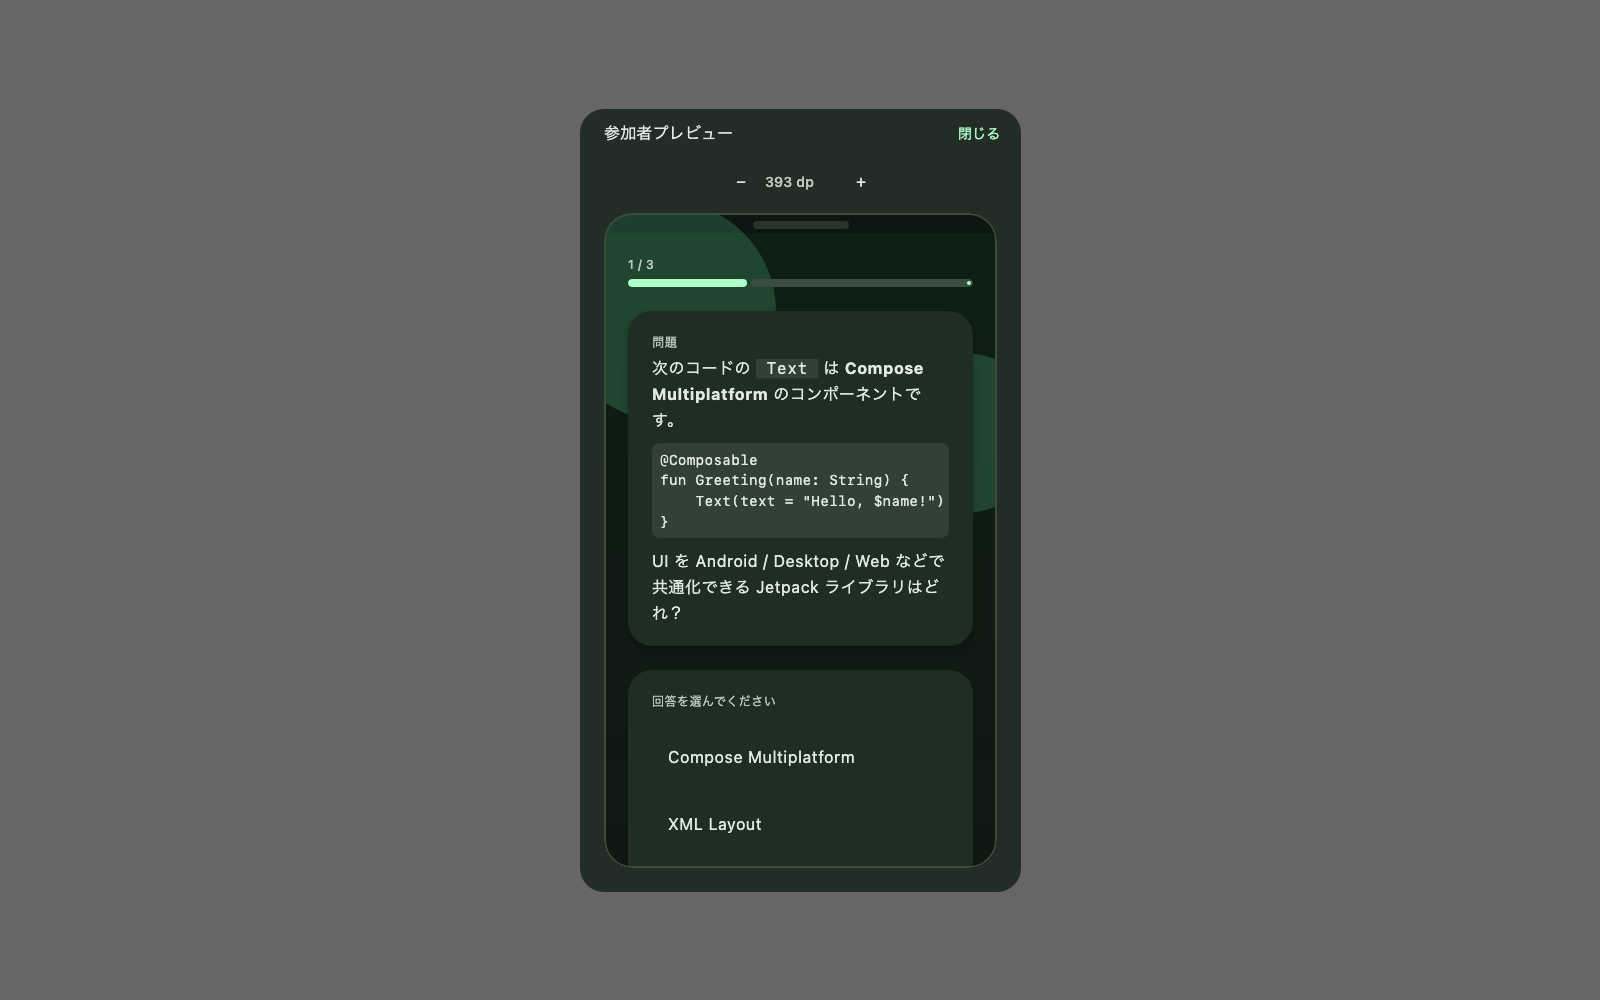
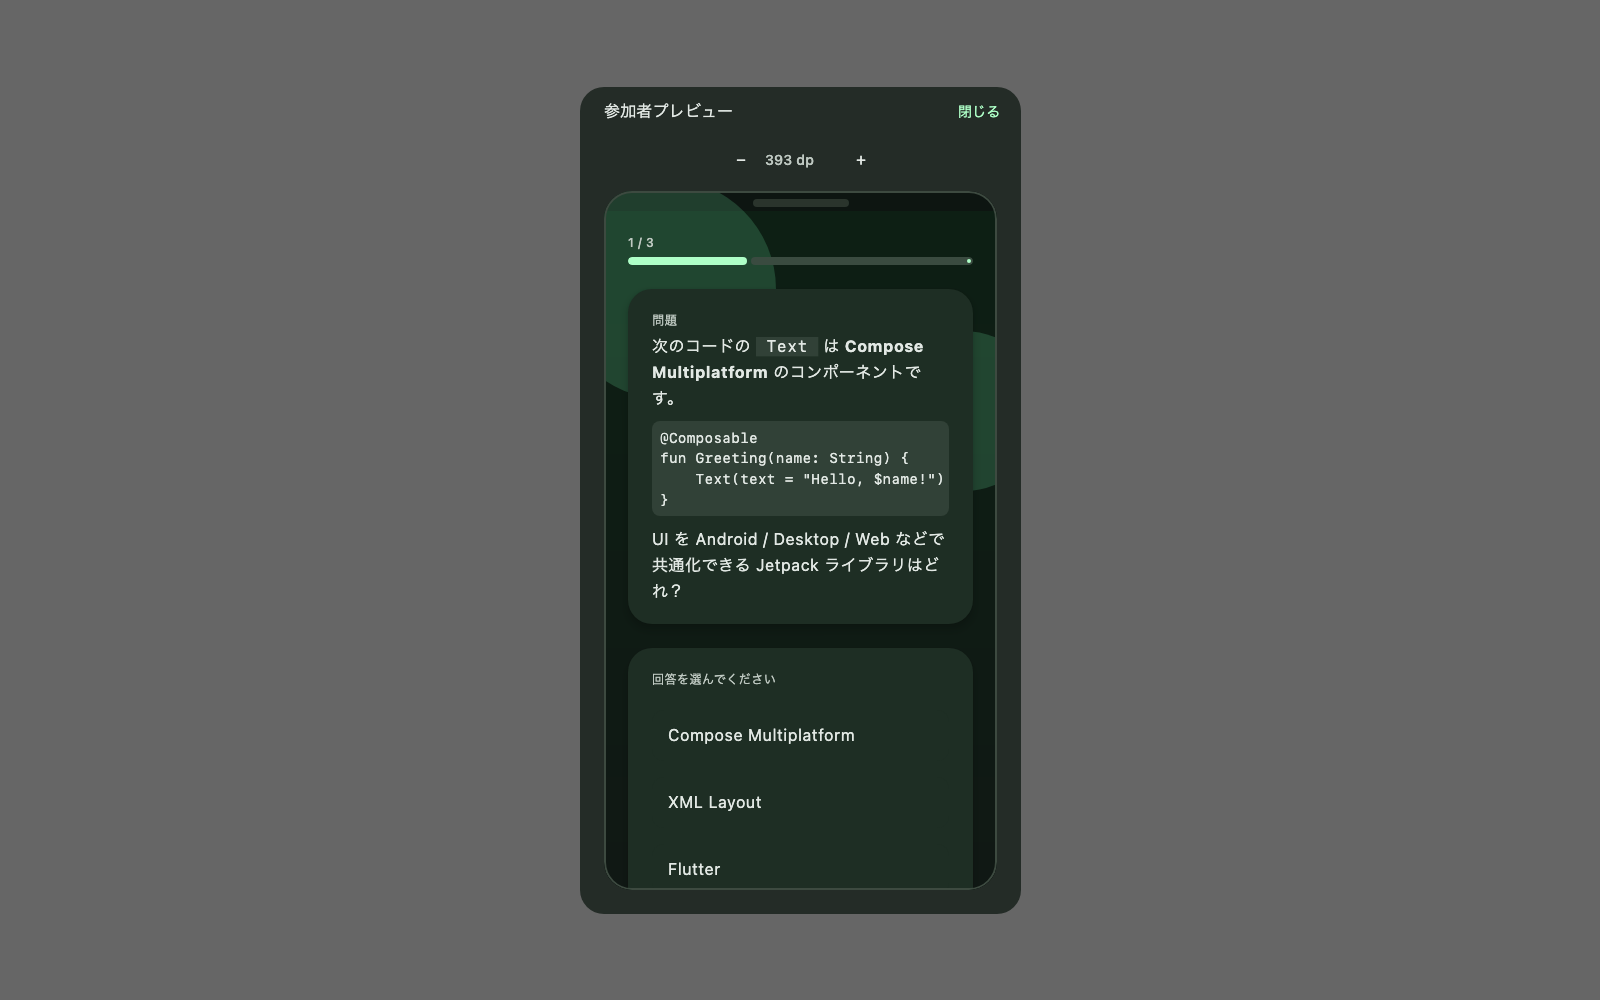
fix(staff): size participant preview dialog from the phone frame
Drop the fixed chrome height so the width controls no longer crush the
viewport, and satisfy detekt with a const aspect-ratio.

diff --git a/staffComposeApp/src/commonMain/kotlin/jp/co/yumemi/quiz/droidkaigi/staff/preview/StaffQuizPreviewDialog.kt b/staffComposeApp/src/commonMain/kotlin/jp/co/yumemi/quiz/droidkaigi/staff/preview/StaffQuizPreviewDialog.kt
@@ -48,15 +48,12 @@ private val DefaultPreviewViewportWidth = 393.dp
 private val MinPreviewViewportWidth = 320.dp
 private val MaxPreviewViewportWidth = 520.dp
 private val PreviewViewportWidthStep = 20.dp
-private val PreviewViewportAspectRatio = 640f / 360f
+private const val PREVIEW_VIEWPORT_ASPECT_RATIO = 640f / 360f
 
-private fun previewViewportHeight(width: Dp): Dp = width * PreviewViewportAspectRatio
+private fun previewViewportHeight(width: Dp): Dp = width * PREVIEW_VIEWPORT_ASPECT_RATIO
 
 private fun previewDialogWidth(viewportWidth: Dp): Dp =
     viewportWidth + QuizTokens.spacingLarge * 2 + QuizTokens.spacingMedium * 2
-
-private fun previewDialogHeight(viewportHeight: Dp): Dp =
-    viewportHeight + 116.dp
 
 @Composable
 fun StaffQuizPreviewDialog(
@@ -104,13 +101,12 @@ fun StaffQuizPreviewDialog(
         Surface(
             modifier = Modifier
                 .width(previewDialogWidth(viewportWidth))
-                .height(previewDialogHeight(viewportHeight))
                 .padding(QuizTokens.spacingMedium),
             shape = RoundedCornerShape(24.dp),
             color = MaterialTheme.colorScheme.surfaceContainerHigh,
             tonalElevation = 6.dp,
         ) {
-            Column(modifier = Modifier.fillMaxSize()) {
+            Column {
                 Row(
                     modifier = Modifier
                         .fillMaxWidth()
@@ -135,7 +131,6 @@ fun StaffQuizPreviewDialog(
                 )
                 Box(
                     modifier = Modifier
-                        .weight(1f)
                         .fillMaxWidth()
                         .padding(
                             horizontal = QuizTokens.spacingLarge,

diff --git a/staffComposeApp/src/jvmTest/kotlin/jp/co/yumemi/quiz/droidkaigi/staff/preview/StaffQuizPreviewScreenshotJvmUiTest.kt b/staffComposeApp/src/jvmTest/kotlin/jp/co/yumemi/quiz/droidkaigi/staff/preview/StaffQuizPreviewScreenshotJvmUiTest.kt
@@ -28,9 +28,8 @@ class StaffQuizPreviewScreenshotJvmUiTest {
 
         onNodeWithText("参加者プレビュー").assertIsDisplayed()
         onNodeWithText("393 dp").assertIsDisplayed()
-        var quizLoaded = false
         for (attempt in 0 until 100) {
-            quizLoaded = runCatching {
+            val quizLoaded = runCatching {
                 onNodeWithText("Compose Multiplatform").assertIsDisplayed()
                 true
             }.getOrDefault(false)
